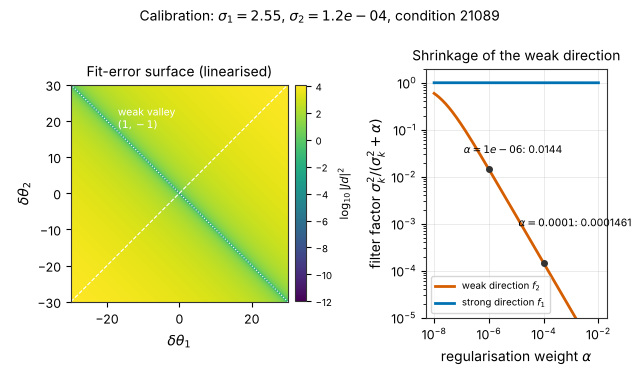
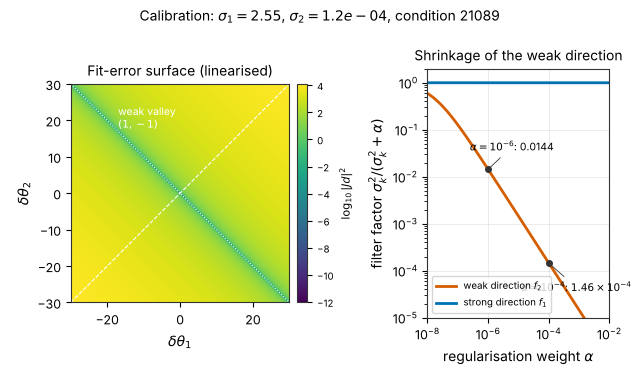
WIP: diagrams in progress
Claude-Session: https://claude.ai/code/session_011jxtZvfPgVEi4xYQRFGwx1

diff --git a/.anchor/session-state.md b/.anchor/session-state.md
@@ -1,22 +1,27 @@
 # Session state (auto-saved — last known reality)
 
-_Updated: 2026-10-19 19:34:03_  ·  branch: `claude/quant-deck-cpp-training-0rix4z`
+_Updated: 2026-10-19 19:35:39_  ·  branch: `claude/quant-deck-cpp-training-0rix4z`
 
 ## Uncommitted changes
 ```
  M .anchor/session-state.md
- M anki-deskstrat-rates-credit/media/11_repo_financing_28_trs_vs_repo_cost.png
+ M anki-deskstrat-rates-credit/media/08_coding_numerics__v3_19_calibration_surface.png
+ M anki-deskstrat-rates-credit/media/08_coding_numerics__v3_1_aad_reverse_sweep.png
+ M anki-deskstrat-rates-credit/media/08_coding_numerics__v3_6_pca_loadings.png
 ```
 
 Diff stat:
 ```
- .anchor/session-state.md                           |  26 ++-------------------
- .../11_repo_financing_28_trs_vs_repo_cost.png      | Bin 36589 -> 35581 bytes
- 2 files changed, 2 insertions(+), 24 deletions(-)
+ .anchor/session-state.md                           |  26 ++++-----------------
+ ..._coding_numerics__v3_19_calibration_surface.png | Bin 70216 -> 67157 bytes
+ .../08_coding_numerics__v3_1_aad_reverse_sweep.png | Bin 45422 -> 47153 bytes
+ .../08_coding_numerics__v3_6_pca_loadings.png      | Bin 69520 -> 65914 bytes
+ 4 files changed, 4 insertions(+), 22 deletions(-)
 ```
 
 ## Recent commits
 ```
+93e95b5 Add XVA and repo diagrams
 faa503d WIP: diagrams in progress
 36bb9ae Add CDS and desk 6-9 diagrams; fix sovereign credit events, repo spike currency, hazard sensitivity
 2b5ba42 Fact-check fixes: C++ module 6
@@ -24,7 +29,6 @@ c127387 Add foundations probability/fixed-income diagrams
 460309a Add foundations derivatives/stats diagrams
 1ad8934 Add markets scenarios diagrams; fact-check fixes options and structured top-ups
 1908716 Add credit models diagrams; clarify RPV01 units
-ee918ba Add swaps, inflation, desk 1-5 diagrams; fix TIPS floor sd units
 ```
 
 ## Resume
